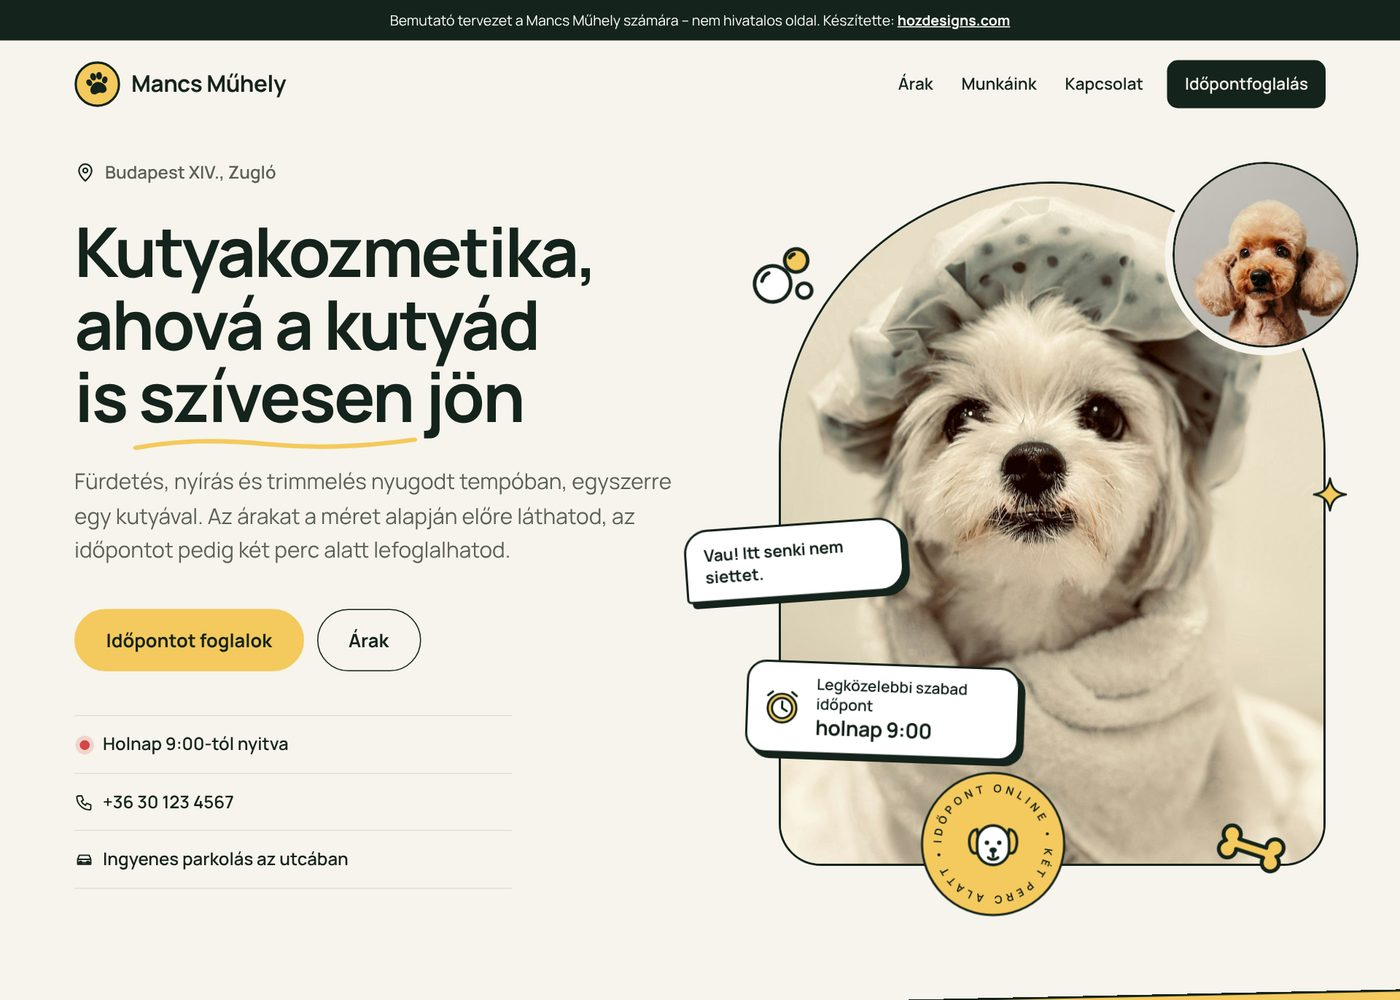
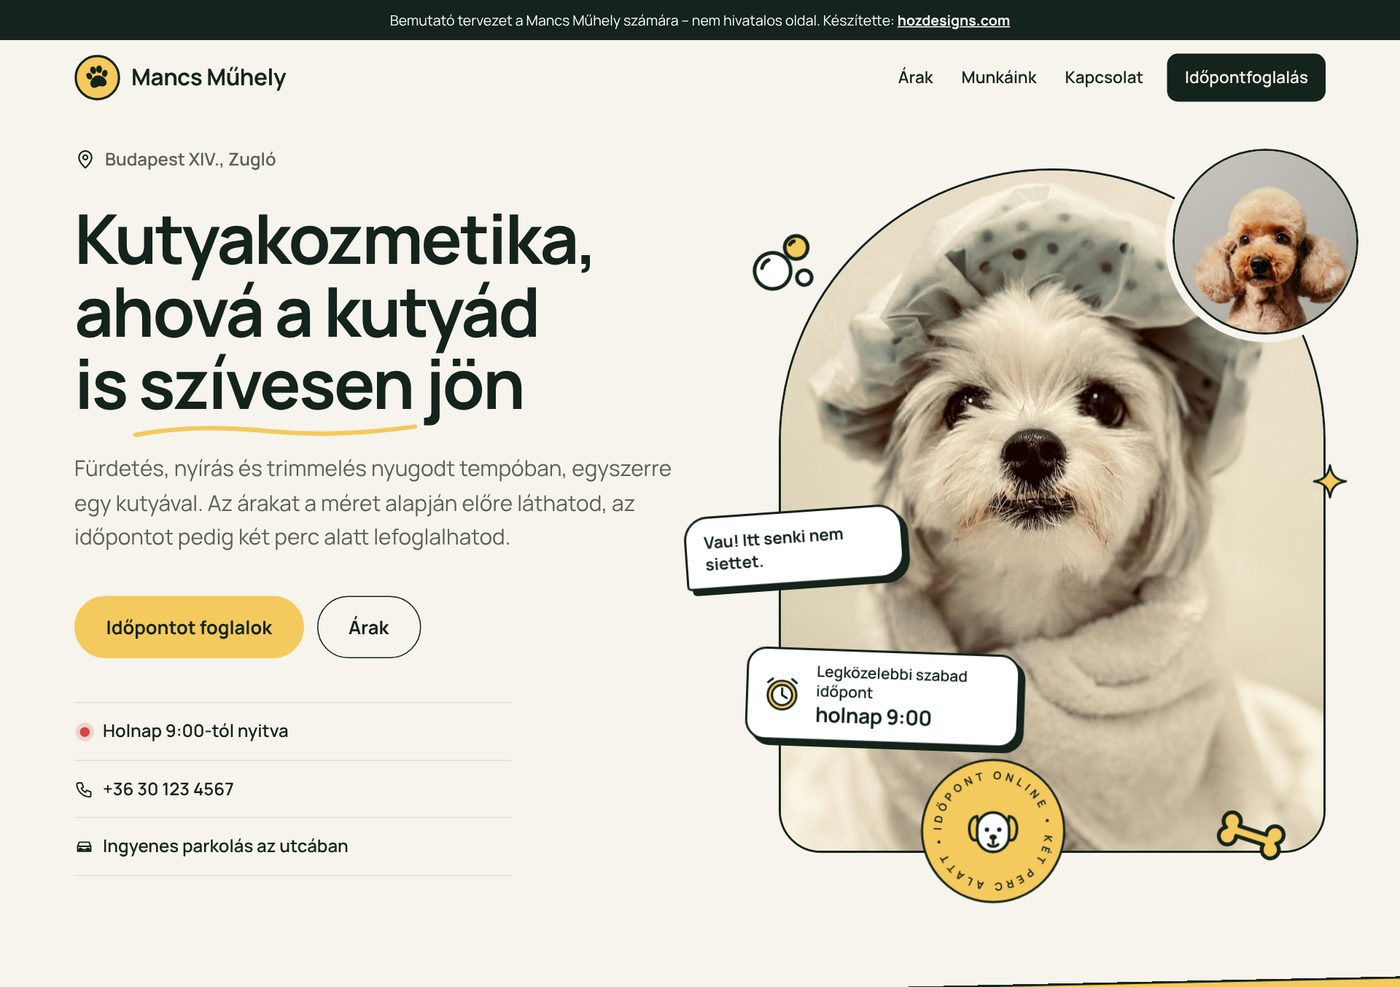
Kutyakozmetika: ragadós menü asztali nézetben is
Claude-Session: https://claude.ai/code/session_016Run1nACTgNtgLbjaBZxC9

diff --git a/minta/teszt-kutyakozmetika/index.html b/minta/teszt-kutyakozmetika/index.html
@@ -554,6 +554,10 @@ html{overflow-x:hidden}
   .hero .meta>*:last-child{border-bottom:1px solid var(--line)}
   .hpic .say{left:-17%;top:50%}
 }
+@media (min-width:641px){
+  .k-kutya .top{position:sticky;top:0;z-index:35;background:var(--paper);box-shadow:0 0 0 100vmax var(--paper);clip-path:inset(0 -100vmax);padding-top:12px;padding-bottom:12px}
+  .k-kutya section[id]{scroll-margin-top:84px !important}
+}
 </style>
 </head>
 <body class="k-kutya s-alap t-alap">
